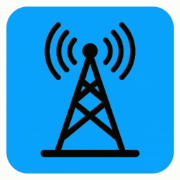
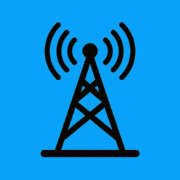
fix defaults

Changed region(s): [[0.0, 0.0, 1.0, 1.0]]

diff --git a/static/app.js b/static/app.js
@@ -692,8 +692,11 @@ function updateIOSMediaSession() {
         artist: [freqMHz, modeStr].filter(Boolean).join(' '),
         album:  'Live SDR',
         artwork: [
-            { src: `${_artworkBase}/images/android-chrome-512x512.png`, sizes: '512x512', type: 'image/png' },
-            { src: `${_artworkBase}/images/android-chrome-192x192.png`, sizes: '192x192', type: 'image/png' }
+            // apple-touch-icon fills the full canvas (no transparent padding) so iOS lock screen
+            // shows no white edges. android-chrome variants kept as fallback for other sizes.
+            { src: `${_artworkBase}/images/apple-touch-icon.png`, sizes: '180x180', type: 'image/png' },
+            { src: `${_artworkBase}/images/android-chrome-192x192.png`, sizes: '192x192', type: 'image/png' },
+            { src: `${_artworkBase}/images/android-chrome-512x512.png`, sizes: '512x512', type: 'image/png' }
         ]
     });
 
